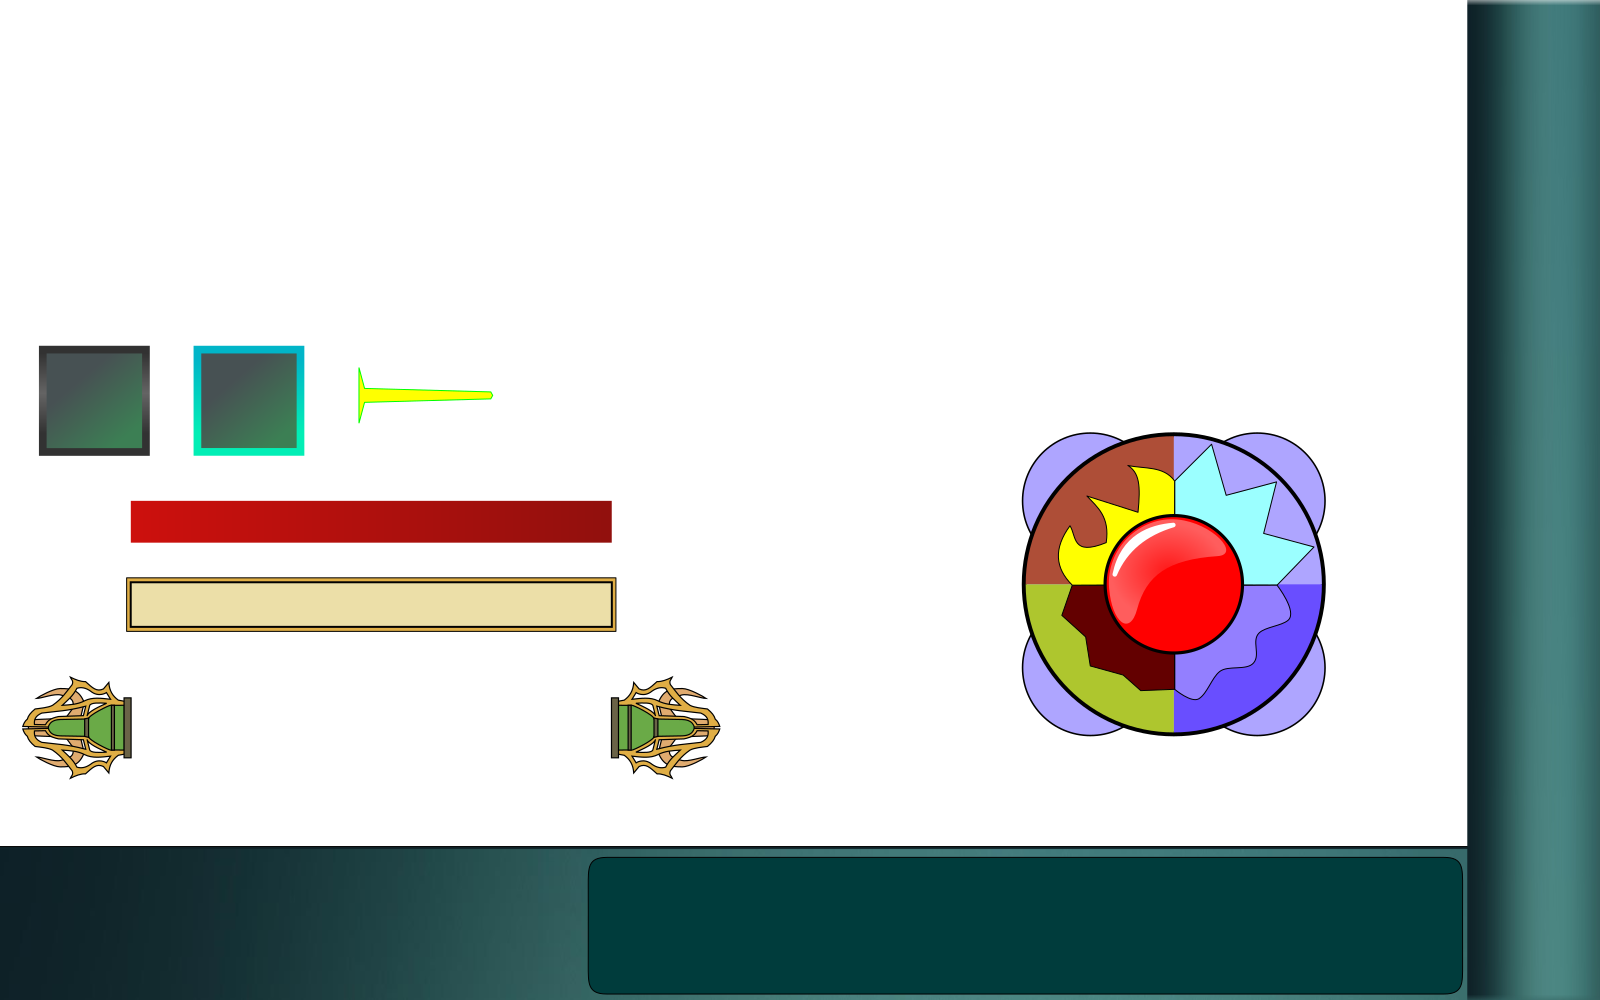
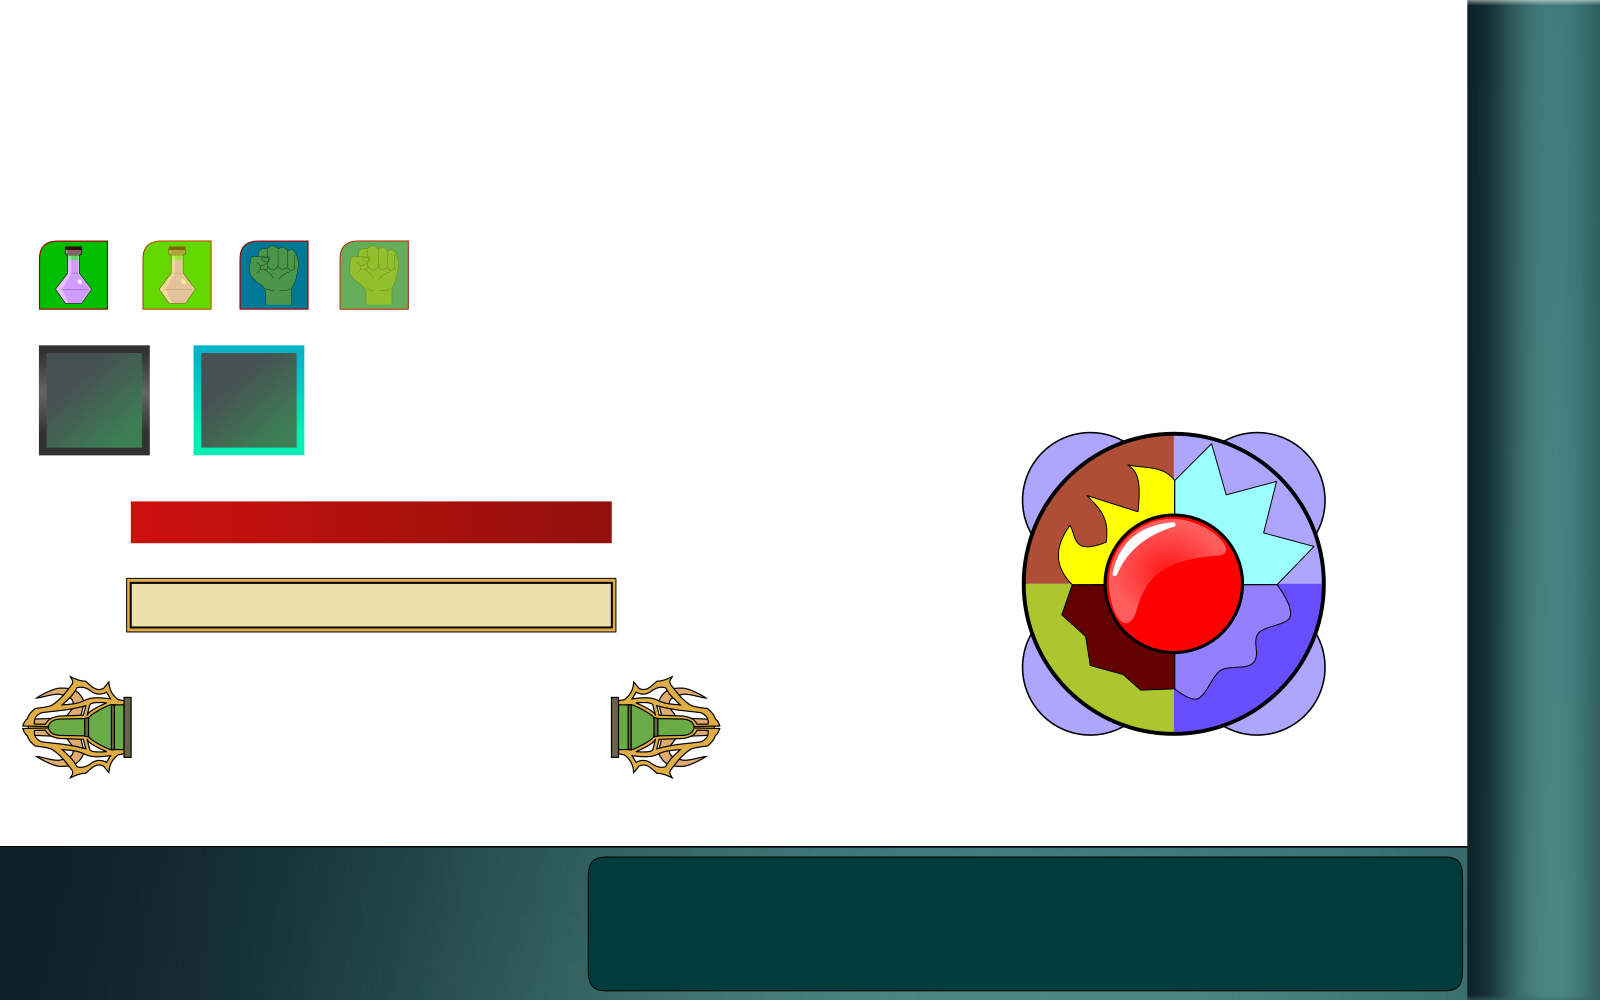
Supplies on fight scrren

diff --git a/Assets/Scripts/FightScreen/FightInterface.cs b/Assets/Scripts/FightScreen/FightInterface.cs
@@ -2,7 +2,7 @@
 using System.Collections;
 using System.Collections.Generic;
 
-public class FightInterface : MonoBehaviour {
+public class FightInterface : MonoBehaviour, ButtonHolder {
 
 	public static FightInterface instance { get; private set; }
 
@@ -24,6 +24,16 @@ public class FightInterface : MonoBehaviour {
 
 	private Transform queueHolder;
 
+    private Button supplyBtn, perksBtn;
+
+    private Transform supplyHolder;
+
+    private SupplySlot[] supplySlots = new SupplySlot[6];
+
+    private Hero chosenHero;
+
+    public HeroAction heroAction { get; private set; }
+
 	public FightInterface init () {
 		instance = this;
 
@@ -33,12 +43,26 @@ public class FightInterface : MonoBehaviour {
 			portraits.Add(portraitsHolder.GetChild(i).GetComponent<HeroRepresentative>().init("Fight Interface"));
 		}
 
+        supplyHolder = transform.Find("Supply Holder");
+        SupplySlot slot;
+        for (int i = 0; i < supplyHolder.childCount; i++) {
+            slot = supplyHolder.GetChild(i).GetComponent<SupplySlot>();
+            slot.init();
+            supplySlots[slot.index] = slot;
+        }
+        supplyHolder.gameObject.SetActive(false);
+
         actionsHolder = transform.Find("Actions Holder");
         emptyHolder = actionsHolder.Find("Empty Holder");
 
 		queueHolder = transform.Find("Queue").Find("Queue Holder");
 
+        supplyBtn = transform.Find("Supply Button").GetComponent<Button>().init();
+        perksBtn = transform.Find("Perks Button").GetComponent<Button>().init();
+
         updateHeroActions();
+
+        hideSuppliesAndPerksBtns();
 
 		gameObject.SetActive(true);
 
@@ -88,16 +112,25 @@ public class FightInterface : MonoBehaviour {
 		}
 	}
 
-    public void setHeroActionsVisible (Hero hero) {
+    public void setChosenHero (Hero hero) {
+        chosenHero = hero;
         foreach (KeyValuePair<Hero, Transform> pair in heroActionHolders) {
             pair.Value.gameObject.SetActive(hero != null && pair.Key == hero);
         }
-		if(hero != null) {
-			foreach(HeroAction act in heroActions[hero]) {
-				act.checkElementsIsEnouth();
+        if(hero != null) {
+            foreach(HeroAction act in heroActions[hero]) {
+                act.checkElementsIsEnouth();
                 act.refillDescription();
-			}
+            }
             heroActions[hero][0].setChosen(true);
+            foreach (SupplySlot slot in supplySlots) {
+                if (slot.item != null) { slot.hideItem(); }
+                if (hero.supplies[slot.index] != null) { slot.setItem(hero.supplies[slot.index].item); }
+            }
+        } else {
+            foreach (SupplySlot slot in supplySlots) {
+                if (slot.item != null) { slot.hideItem(); }
+            }
         }
     }
 
@@ -109,32 +142,71 @@ public class FightInterface : MonoBehaviour {
     }
 
     public void chooseAction (HeroAction action) {
-        foreach(HeroAction act in heroActions[action.hero]) {
-            if (act != action) { act.setChosen(false); }
-        }
-		FightProcessor.instance.heroAction = action;
-		switch (action.targetType) {
-			case TargetType.SELF: chooseTargets(new Character[]{action.hero}); break;
-            case TargetType.ALLIES: 
-                List<Character> allies = new List<Character>();
-                foreach (Hero hero in Vars.heroes.Values) {
-                    if (hero.alive) { allies.Add(hero); }
-                }
-                chooseTargets(allies.ToArray());
-                break;
-            case TargetType.ENEMIES:
-                List<Character> enemies = new List<Character>();
-                foreach (EnemyRepresentative enemy in FightProcessor.instance.enemies) {
-                    if (enemy.character.alive) {
-                        enemies.Add(enemy.character);
+        heroAction = action;
+        if (heroAction != null) {
+            foreach(HeroAction act in heroActions[action.hero]) {
+                if (act != action) { act.setChosen(false); }
+            }
+    		switch (action.targetType) {
+    			case TargetType.SELF: chooseTargets(new Character[]{action.hero}); break;
+                case TargetType.ALLIES: 
+                    List<Character> allies = new List<Character>();
+                    foreach (Hero hero in Vars.heroes.Values) {
+                        if (hero.alive) { allies.Add(hero); }
                     }
-                }
-                chooseTargets(enemies.ToArray());
-                break;
+                    chooseTargets(allies.ToArray());
+                    break;
+                case TargetType.ENEMIES:
+                    List<Character> enemies = new List<Character>();
+                    foreach (EnemyRepresentative enemy in FightProcessor.instance.enemies) {
+                        if (enemy.character.alive) {
+                            enemies.Add(enemy.character);
+                        }
+                    }
+                    chooseTargets(enemies.ToArray());
+                    break;
+            }
         }
     }
 
     public void chooseTargets (Character[] targets) {
 		FightProcessor.instance.actionTargets = targets;
+    }
+
+    public void fireClickButton (Button btn) {
+        if (btn == supplyBtn) { showSupplies(); }
+        else if (btn == perksBtn) { showPerks(); }
+        else { Debug.Log("Unknown button: " + btn.name); }
+    }
+
+    public void showSupplies () {
+        supplyBtn.setVisible(false);
+        perksBtn.setVisible(true);
+        supplyHolder.gameObject.SetActive(true);
+        actionsHolder.gameObject.SetActive(false);
+        chooseAction(null);
+        foreach (EnemyRepresentative enemy in FightProcessor.instance.enemies) {
+            if (enemy.character.alive) {
+                enemy.setColliderEnabled(false);
+            }
+        }
+    }
+
+    public void showPerks () {
+        perksBtn.setVisible(false);
+        supplyBtn.setVisible(true);
+        supplyHolder.gameObject.SetActive(false);
+        actionsHolder.gameObject.SetActive(true);
+        heroActions[chosenHero][0].setChosen(true);
+        foreach (EnemyRepresentative enemy in FightProcessor.instance.enemies) {
+            if (enemy.character.alive) {
+                enemy.setColliderEnabled(true);
+            }
+        }
+    }
+
+    public void hideSuppliesAndPerksBtns () {
+        supplyBtn.setVisible(false);
+        perksBtn.setVisible(false);
     }
 }

diff --git a/Assets/Scripts/FightScreen/FightScreen.cs b/Assets/Scripts/FightScreen/FightScreen.cs
@@ -28,8 +28,6 @@ public class FightScreen : MonoBehaviour, ButtonHolder {
 
 	private bool playerWin;
 
-	private List<SupplySlot> supplySlots = new List<SupplySlot>();
-
 	private Vector3 playerStatusStartPosition = new Vector3(6.8f, 0, 0),
 					enemyStatusStartPosition = new Vector3(6.9f, 7.5f, 0);
 
@@ -71,15 +69,6 @@ public class FightScreen : MonoBehaviour, ButtonHolder {
 		elementsHolder.gameObject.SetActive(true);
 		gameObject.SetActive(false);
 
-		Transform supplyHolder = transform.Find("Supply Holder");
-		SupplySlot slot;
-		for (int i = 0; i < supplyHolder.childCount; i++) {
-			slot = supplyHolder.GetChild(i).GetComponent<SupplySlot>();
-			slot.init();
-			supplySlots.Add(slot);
-		}
-        supplyHolder.gameObject.SetActive(false);
-
 		captureBtn = transform.Find ("Capture Button").GetComponent<Button> ().init ();
 		releaseBtn = transform.Find ("Release Button").GetComponent<Button> ().init ();
 
@@ -96,14 +85,14 @@ public class FightScreen : MonoBehaviour, ButtonHolder {
     public void startFight (List<EnemyType> types) {
         initEnemies(types);
         skipButton.gameObject.SetActive(false);
-		SupplySlot supSlot;
-		foreach (SupplySlot slot in StatusScreen.instance.supplySlots) {
-			if (slot.item != null) {
-				supSlot = getSlot (slot.index);
-				supSlot.setItem(slot.takeItem());
-				supSlot.item.transform.localScale = Vector3.one;
-			}
-        }
+//		SupplySlot supSlot;
+//		foreach (SupplySlot slot in StatusScreen.instance.supplySlots) {
+//			if (slot.item != null) {
+//				supSlot = getSlot (slot.index);
+//				supSlot.setItem(slot.takeItem());
+//				supSlot.item.transform.localScale = Vector3.one;
+//			}
+//        }
 		ItemDescriptor.instance.setEnabled();
 		playerWin = false;
 		FightInterface.instance.updateHeroActions();
@@ -122,9 +111,9 @@ public class FightScreen : MonoBehaviour, ButtonHolder {
 		captureBtn.setVisible (false);
 		releaseBtn.setVisible (false);
 
-		FightInterface.instance.setHeroActionsVisible(null);
+        FightInterface.instance.setChosenHero(null);
 
-		gameObject.SetActive(true);
+        gameObject.SetActive(true);
 	}
 
     private void initEnemies (List<EnemyType> types) {
@@ -146,14 +135,6 @@ public class FightScreen : MonoBehaviour, ButtonHolder {
         topLayerOrder = (types.Count * sortingOrderStep);
 //        backgroundRender.sortingOrder = topLayerOrder - 1;
     }
-
-	private SupplySlot getSlot (int index) {
-		foreach (SupplySlot slot in supplySlots) {
-			if (slot.index == index) { return slot; }
-		}
-		Debug.Log("Unknown slot index: " + index);
-		return null;
-	}
 
 	void Update () {
 		if (!fightStarted) {
@@ -250,14 +231,14 @@ public class FightScreen : MonoBehaviour, ButtonHolder {
 
 	public void closeFightScreen () {
 		gameObject.SetActive(false);
-		SupplySlot supSlot;
-		foreach (SupplySlot slot in supplySlots) {
-			if (slot.item != null) {
-                supSlot = StatusScreen.instance.supplySlots[slot.index];
-				supSlot.setItem(slot.takeItem());
-				supSlot.item.transform.localScale = Vector3.one;
-			}
-		}
+//		SupplySlot supSlot;
+//		foreach (SupplySlot slot in supplySlots) {
+//			if (slot.item != null) {
+//                supSlot = StatusScreen.instance.supplySlots[slot.index];
+//				supSlot.setItem(slot.takeItem());
+//				supSlot.item.transform.localScale = Vector3.one;
+//			}
+//		}
         world.backFromFight(playerWin);
 	}
 

diff --git a/Assets/Scripts/FightScreen/FightProcessor.cs b/Assets/Scripts/FightScreen/FightProcessor.cs
@@ -32,9 +32,6 @@ public class FightProcessor : MonoBehaviour {
     private EnemyRepresentative currEnemy;
 
     [HideInInspector]
-    public HeroAction heroAction;
-
-    [HideInInspector]
     public Character[] actionTargets;
 
 	public void init (ElementsHolder elementsHolder, List<EnemyRepresentative> enemies) {
@@ -137,7 +134,8 @@ public class FightProcessor : MonoBehaviour {
         foreach(Hero hero in heroes) { hero.representative.refreshColor(); }
         foreach(EnemyRepresentative enem in enemies) { enem.refreshColor(); }
 
-        FightInterface.instance.setHeroActionsVisible(null);
+        FightInterface.instance.hideSuppliesAndPerksBtns();
+        FightInterface.instance.setChosenHero(null);
 
         switchMachineState(StateMachine.CHECKING_ELEMENTS_POOL_ACTIONS);
     }
@@ -214,7 +212,8 @@ public class FightProcessor : MonoBehaviour {
                     holder.setColliderEnabled(true);
                 }
 
-				FightInterface.instance.setHeroActionsVisible((Hero)currCharacter);
+                FightInterface.instance.setChosenHero((Hero)currCharacter);
+                FightInterface.instance.showPerks();
             } else {
                 currEnemy = (EnemyRepresentative)currCharacter.representative;
                 currEnemy.setAsCurrentEnemy();
@@ -224,7 +223,8 @@ public class FightProcessor : MonoBehaviour {
                         holder.sendToBackground();
                     }
                 }
-				FightInterface.instance.setHeroActionsVisible(null);
+                FightInterface.instance.setChosenHero(null);
+                FightInterface.instance.hideSuppliesAndPerksBtns();
             }
 
 			FightInterface.instance.updateQueue(queue);
@@ -235,12 +235,12 @@ public class FightProcessor : MonoBehaviour {
 
     private void checkCharacterTurn () {
         if (currCharacter.isHero()) { 
-            if (heroAction != null && actionTargets != null) {
-				foreach (KeyValuePair<ElementType, int> pair in heroAction.elementsCost) {
+            if (FightInterface.instance.heroAction != null && actionTargets != null) {
+                foreach (KeyValuePair<ElementType, int> pair in FightInterface.instance.heroAction.elementsCost) {
 					ElementsPool.instance.elements[pair.Key] -= pair.Value;
 				}
 				ElementsPool.instance.updateCounters();
-                switch (heroAction.actionType) {
+                switch (FightInterface.instance.heroAction.actionType) {
                     case HeroActionType.SWORD_SWING:
                     case HeroActionType.MAGIC_ARROW:
                     case HeroActionType.STAFF_ATTACK:
@@ -271,9 +271,9 @@ public class FightProcessor : MonoBehaviour {
                         actionTargets[0].addStatus(StatusEffectType.BLINDED, 3);//.statusEffects[StatusEffectType.BLINDED].addStatus(0, 3);
                         break;
 
-					default: Debug.Log("Unknown action type: " + heroAction.actionType); break;
+                    default: Debug.Log("Unknown action type: " + FightInterface.instance.heroAction.actionType); break;
                 }
-                heroAction = null;
+                FightInterface.instance.chooseAction(null);
                 actionTargets = null;
                 switchMachineState(StateMachine.FIGHT_ANIMATION);
             }

diff --git a/Assets/Scripts/CharacterRepresentative.cs b/Assets/Scripts/CharacterRepresentative.cs
@@ -105,9 +105,9 @@ public abstract class CharacterRepresentative : Describeable {
 			if (character.isHero() && StatusScreen.instance.gameObject.activeInHierarchy) {
 				StatusScreen.instance.chooseHero (((HeroRepresentative)this).type);
 			} else {
-				if (FightProcessor.instance.heroAction != null) {
-					if ((FightProcessor.instance.heroAction.targetType == TargetType.ALLY && character.isHero()) ||
-						(FightProcessor.instance.heroAction.targetType == TargetType.ENEMY && !character.isHero())) {
+                if (FightInterface.instance.heroAction != null) {
+                    if ((FightInterface.instance.heroAction.targetType == TargetType.ALLY && character.isHero()) ||
+                        (FightInterface.instance.heroAction.targetType == TargetType.ENEMY && !character.isHero())) {
 						FightProcessor.instance.actionTargets = new Character[]{character};
 					}
 				}
